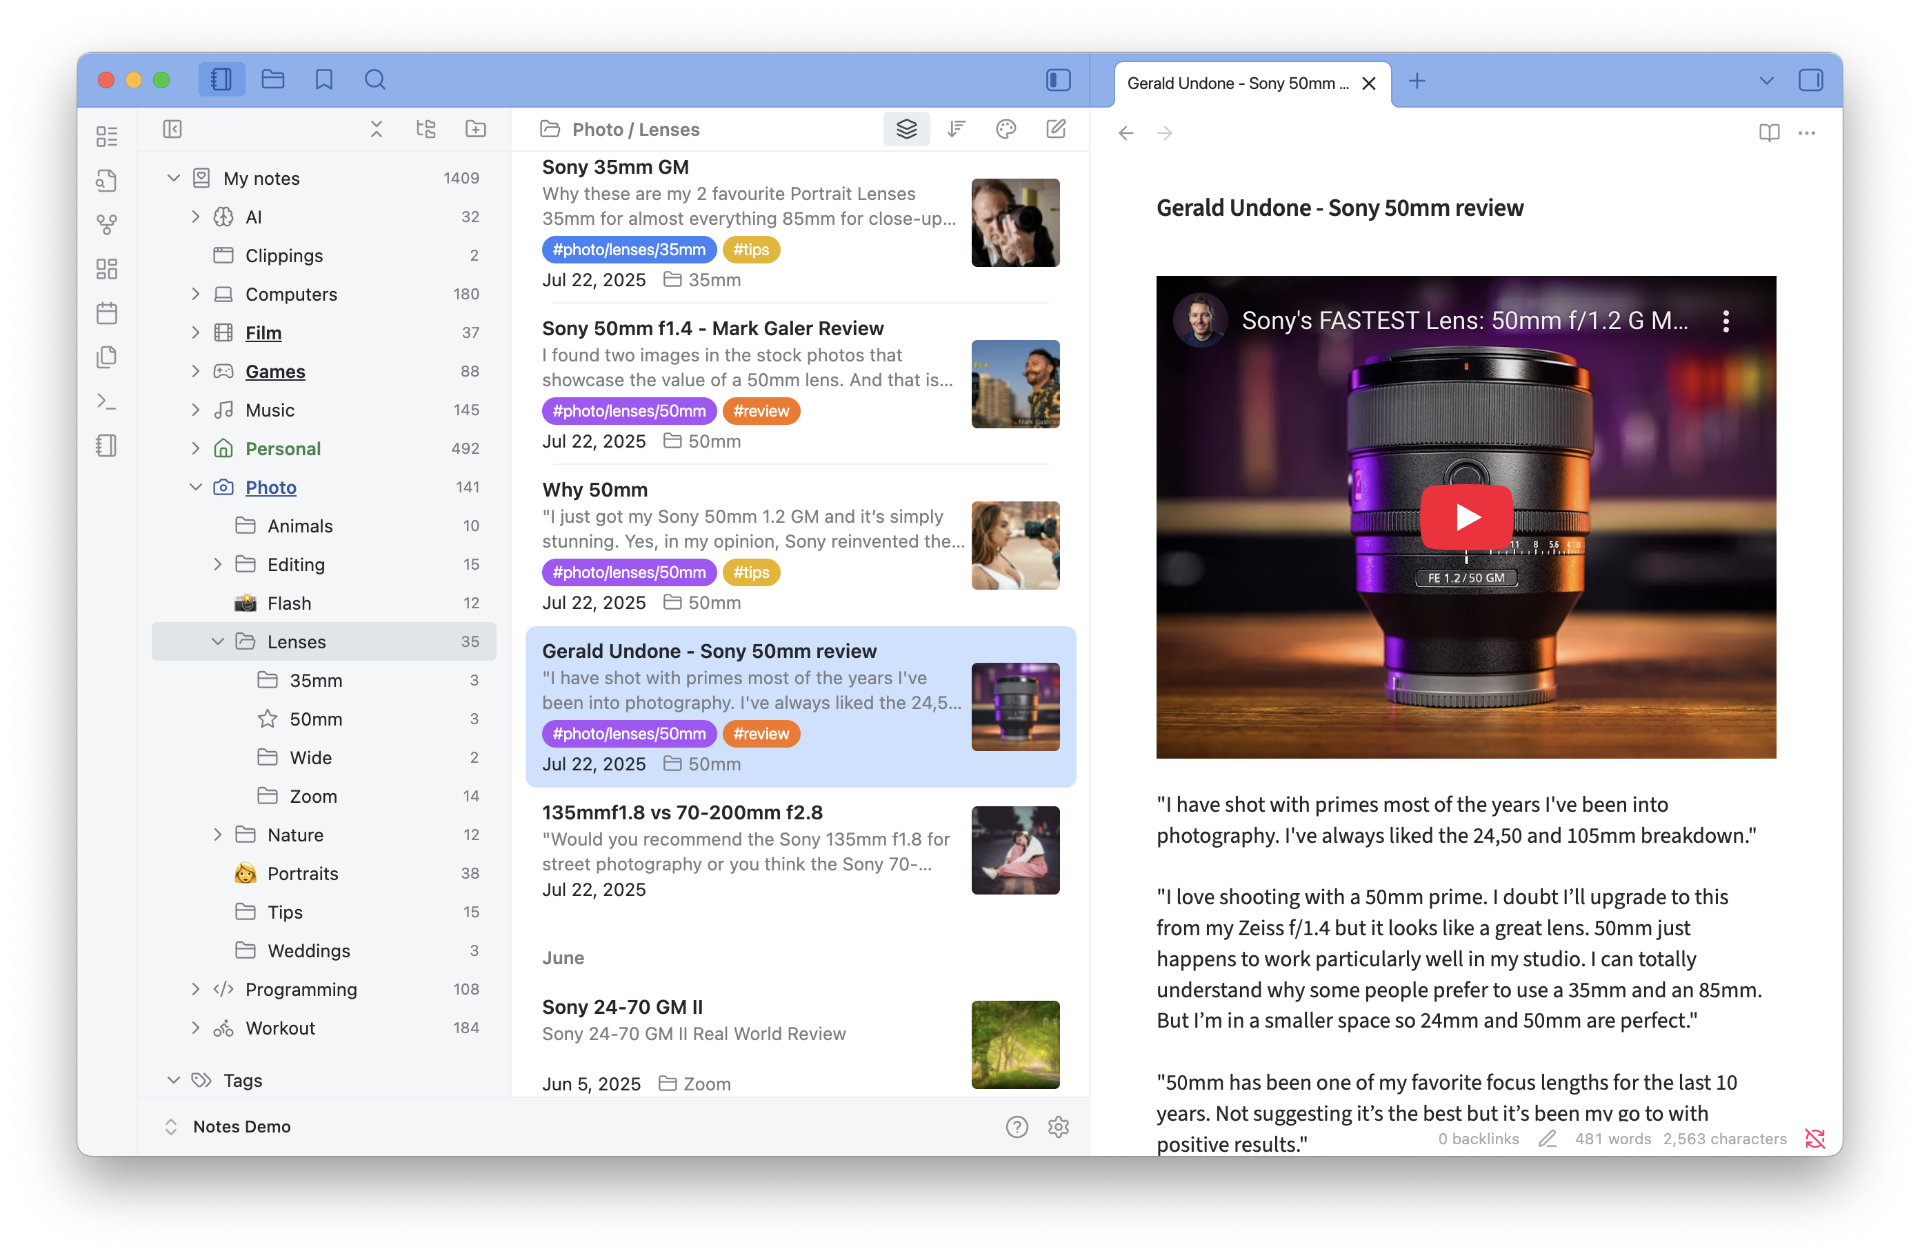
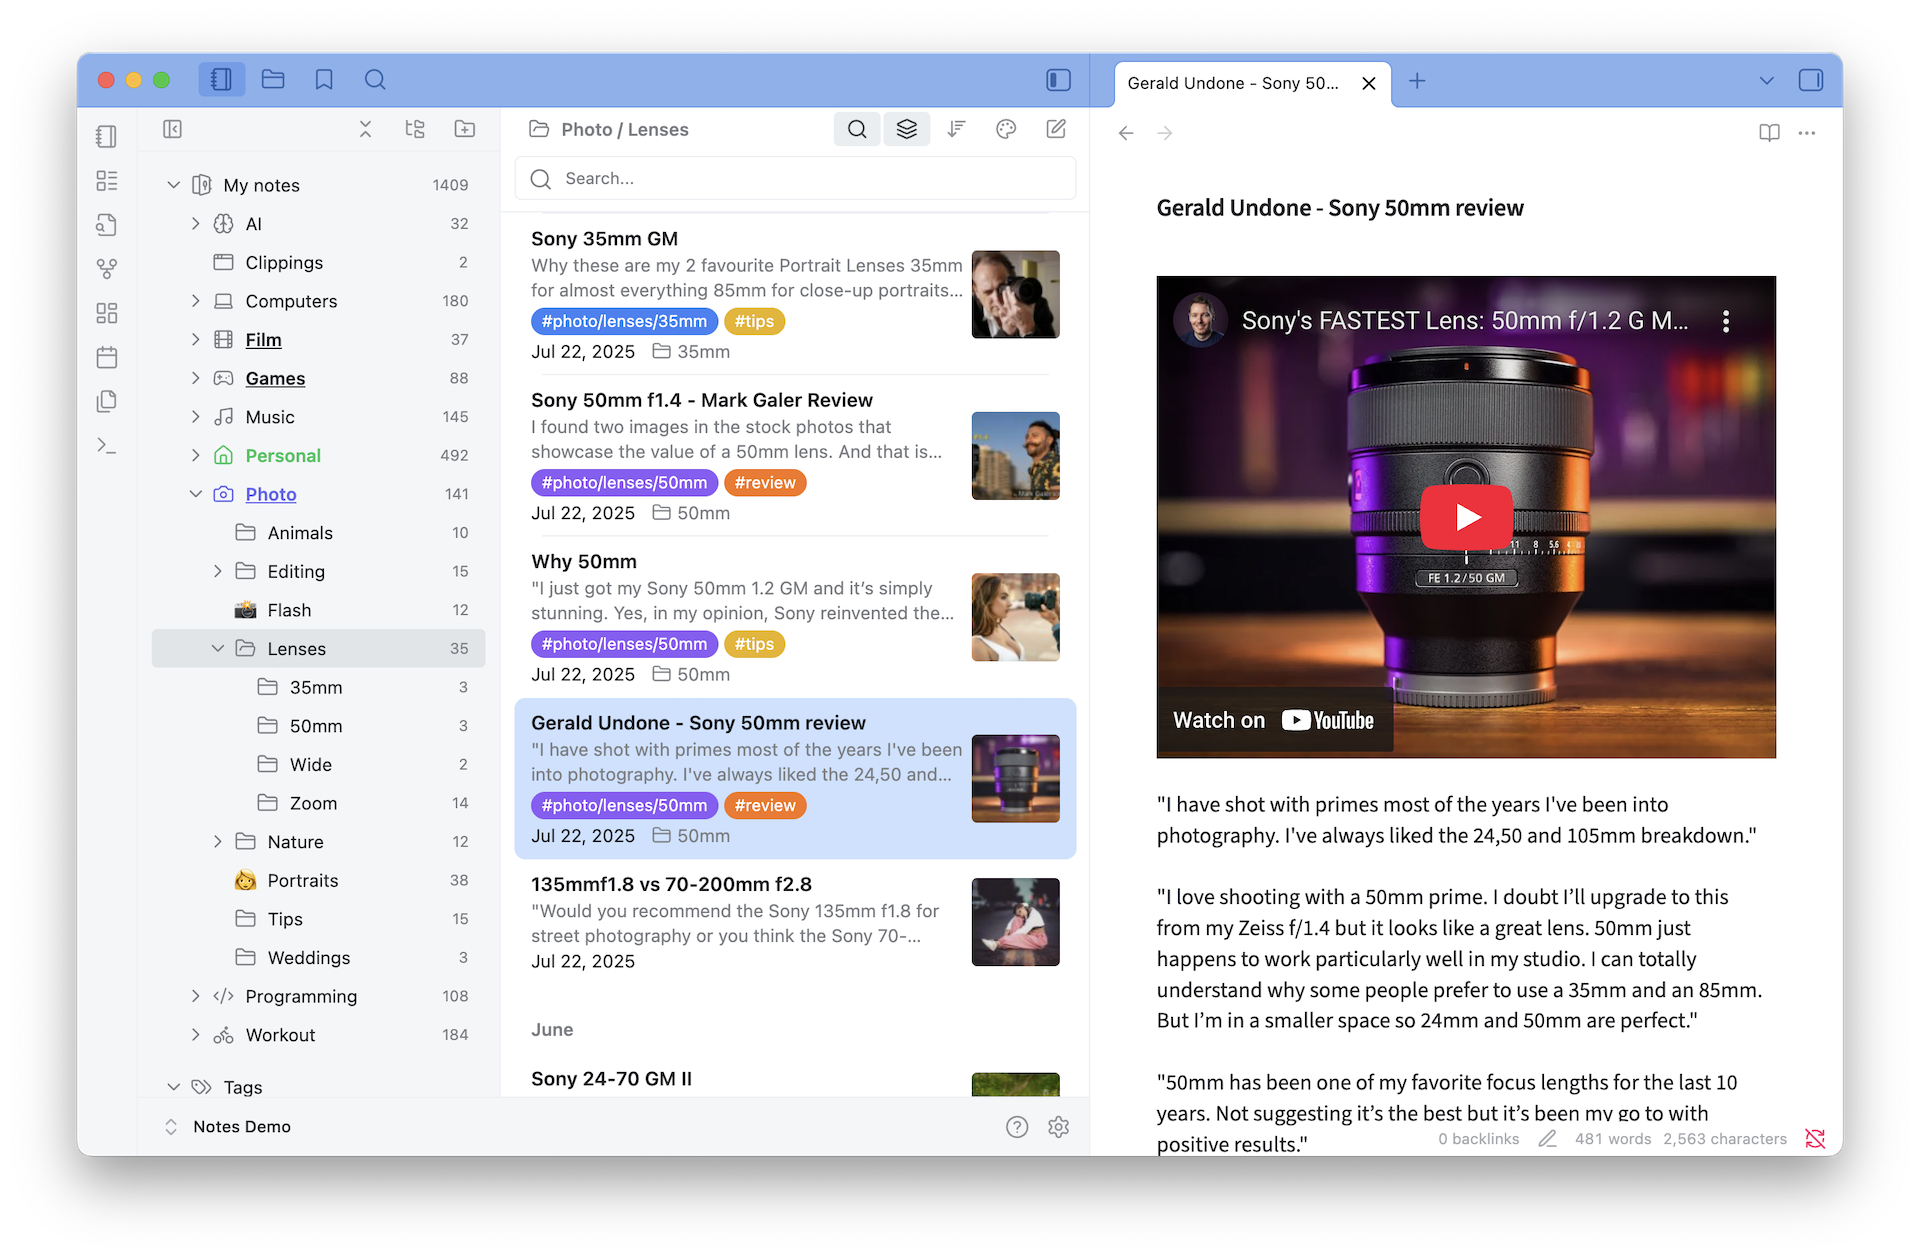
New release notes and new feature image

diff --git a/src/releaseNotes.ts b/src/releaseNotes.ts
@@ -55,53 +55,24 @@ export interface ReleaseNote {
  */
 const RELEASE_NOTES: ReleaseNote[] = [
     {
+        version: '1.4.5',
+        date: '2025-09-03',
+        showOnUpdate: true,
+        info: 'Thanks a lot for using Notebook Navigator! In this release we have a great new feature: Quick search, to instantly filter files in the current folder or tag! Bind it to a shortcut key like CMD+SHIFT+S to quickly open or focus the quick search field. Use Tab or Enter to move focus to the file list, use Shift+Tab to move to navigation pane, or Esc to close.',
+        new: [
+            '**Quick search**. Filter files in the current folder or tag with the new search button in the toolbar.',
+            '**Search command**. Access file search from anywhere with the new Notebook Navigator: Search command.',
+            '**New theme variable**. `--nn-theme-list-header-search-active-bg` to customize the search field background when active. Also available in Style Settings.'
+        ],
+        fixed: ['Non-markdown files now correctly stay pinned when the plugin restarts.']
+    },
+    {
         version: '1.4.4',
         date: '2025-09-02',
         showOnUpdate: true,
         new: [
             'New setting: **Item height**. Adjust the height of folders and tags in the navigation pane.',
             'New setting: **Tree indentation**. Adjust the indentation width for nested folders and tags.'
-        ]
-    },
-    {
-        version: '1.4.3',
-        date: '2025-08-31',
-        showOnUpdate: false,
-        fixed: ['The Help buttons for date strings in Settings are now visible again (they had invalid icons).']
-    },
-    {
-        version: '1.4.2',
-        date: '2025-08-30',
-        showOnUpdate: false,
-        new: [
-            'New setting: **Use embedded image fallback**. Default ON, uses the first embedded image in the document as a fallback when no thumbnail is found in frontmatter properties. Disable to verify that thumbnails are properly configured.'
-        ]
-    },
-    {
-        version: '1.4.1',
-        date: '2025-08-29',
-        showOnUpdate: true,
-        new: [
-            'New Style Settings parameter: **Tree indentation** to adjust the indentation width for each folder and tag in the navigation pane.'
-        ],
-        fixed: ['Removed legacy ESLint 8 support from build process. Added more rules to ESLint 9 config file.']
-    },
-    {
-        version: '1.4.0',
-        date: '2025-08-26',
-        showOnUpdate: true,
-        new: [
-            '**Public API**. Other plugins and Javascript developers can now interact with Notebook Navigator through a comprehensive API that provides metadata management, navigation control, and event subscriptions. Full TypeScript support included!',
-            '**Theming support**. Notebook Navigator now exposes custom CSS properties and provides detailed documentation for theme developers. Theme developers can fully customize colors, selection styles, hover effects, and all UI elements including mobile-specific components.',
-            '**Style Settings support**. Full integration with the Style Settings plugin makes it super easy to get Notebook Navigator to look just the way you want it!',
-            '**New setting: Optimize note height**. You can now toggle off the automatic height reduction of pinned notes and notes without preview text (default on).',
-            '**New setting: Inherit folder colors**. You can now toggle on color inheritance for folders.'
-        ],
-        changed: [
-            '**Pinned notes are now context-aware**. Files are now pinned separately in folder view and tag view, allowing different pinned files for each context.'
-        ],
-        fixed: [
-            'Lots of improvements to the user experience. Featured images scale in size depending on item height, we use native scroll bars on macOS, and the interface was improved in over a dozen places.'
         ]
     }
 ];

diff --git a/README.md b/README.md
@@ -72,7 +72,7 @@ For precise image management, consider also installing [Pixel Perfect Image](htt
 ### Productivity
 
 - **Quick actions** - Hover buttons for open in new tab, pin, and reveal in folder
-- **File search** - Search and filter notes in the current folder or tag with instant results
+- **Quick search** - Search and filter notes in the current folder or tag with instant results
 - **Drag & drop** - Move files between folders, drag to tags to add tags, drag to Untagged to remove tags
 - **Tag operations** - Add, remove, or clear tags via context menu and commands
 - **File operations** - Create, rename, delete, duplicate, move files and folders
@@ -200,7 +200,7 @@ Set custom hotkeys for these commands in Obsidian's Hotkeys settings:
 - `Notebook Navigator: Navigate to folder` Search dialog to jump to any folder
 - `Notebook Navigator: Navigate to tag` Search dialog to jump to any tag
 - `Notebook Navigator: Focus file` Move keyboard focus to file list pane
-- `Notebook Navigator: Search` Opens search field or focuses it if already open. Search persists between sessions
+- `Notebook Navigator: Search` Opens quick search field or focuses it if already open. Search persists between sessions. **Tip:** Bind to a shortcut key like Cmd+Shift+S for quick file filtering
 
 **Layout & display**
 
